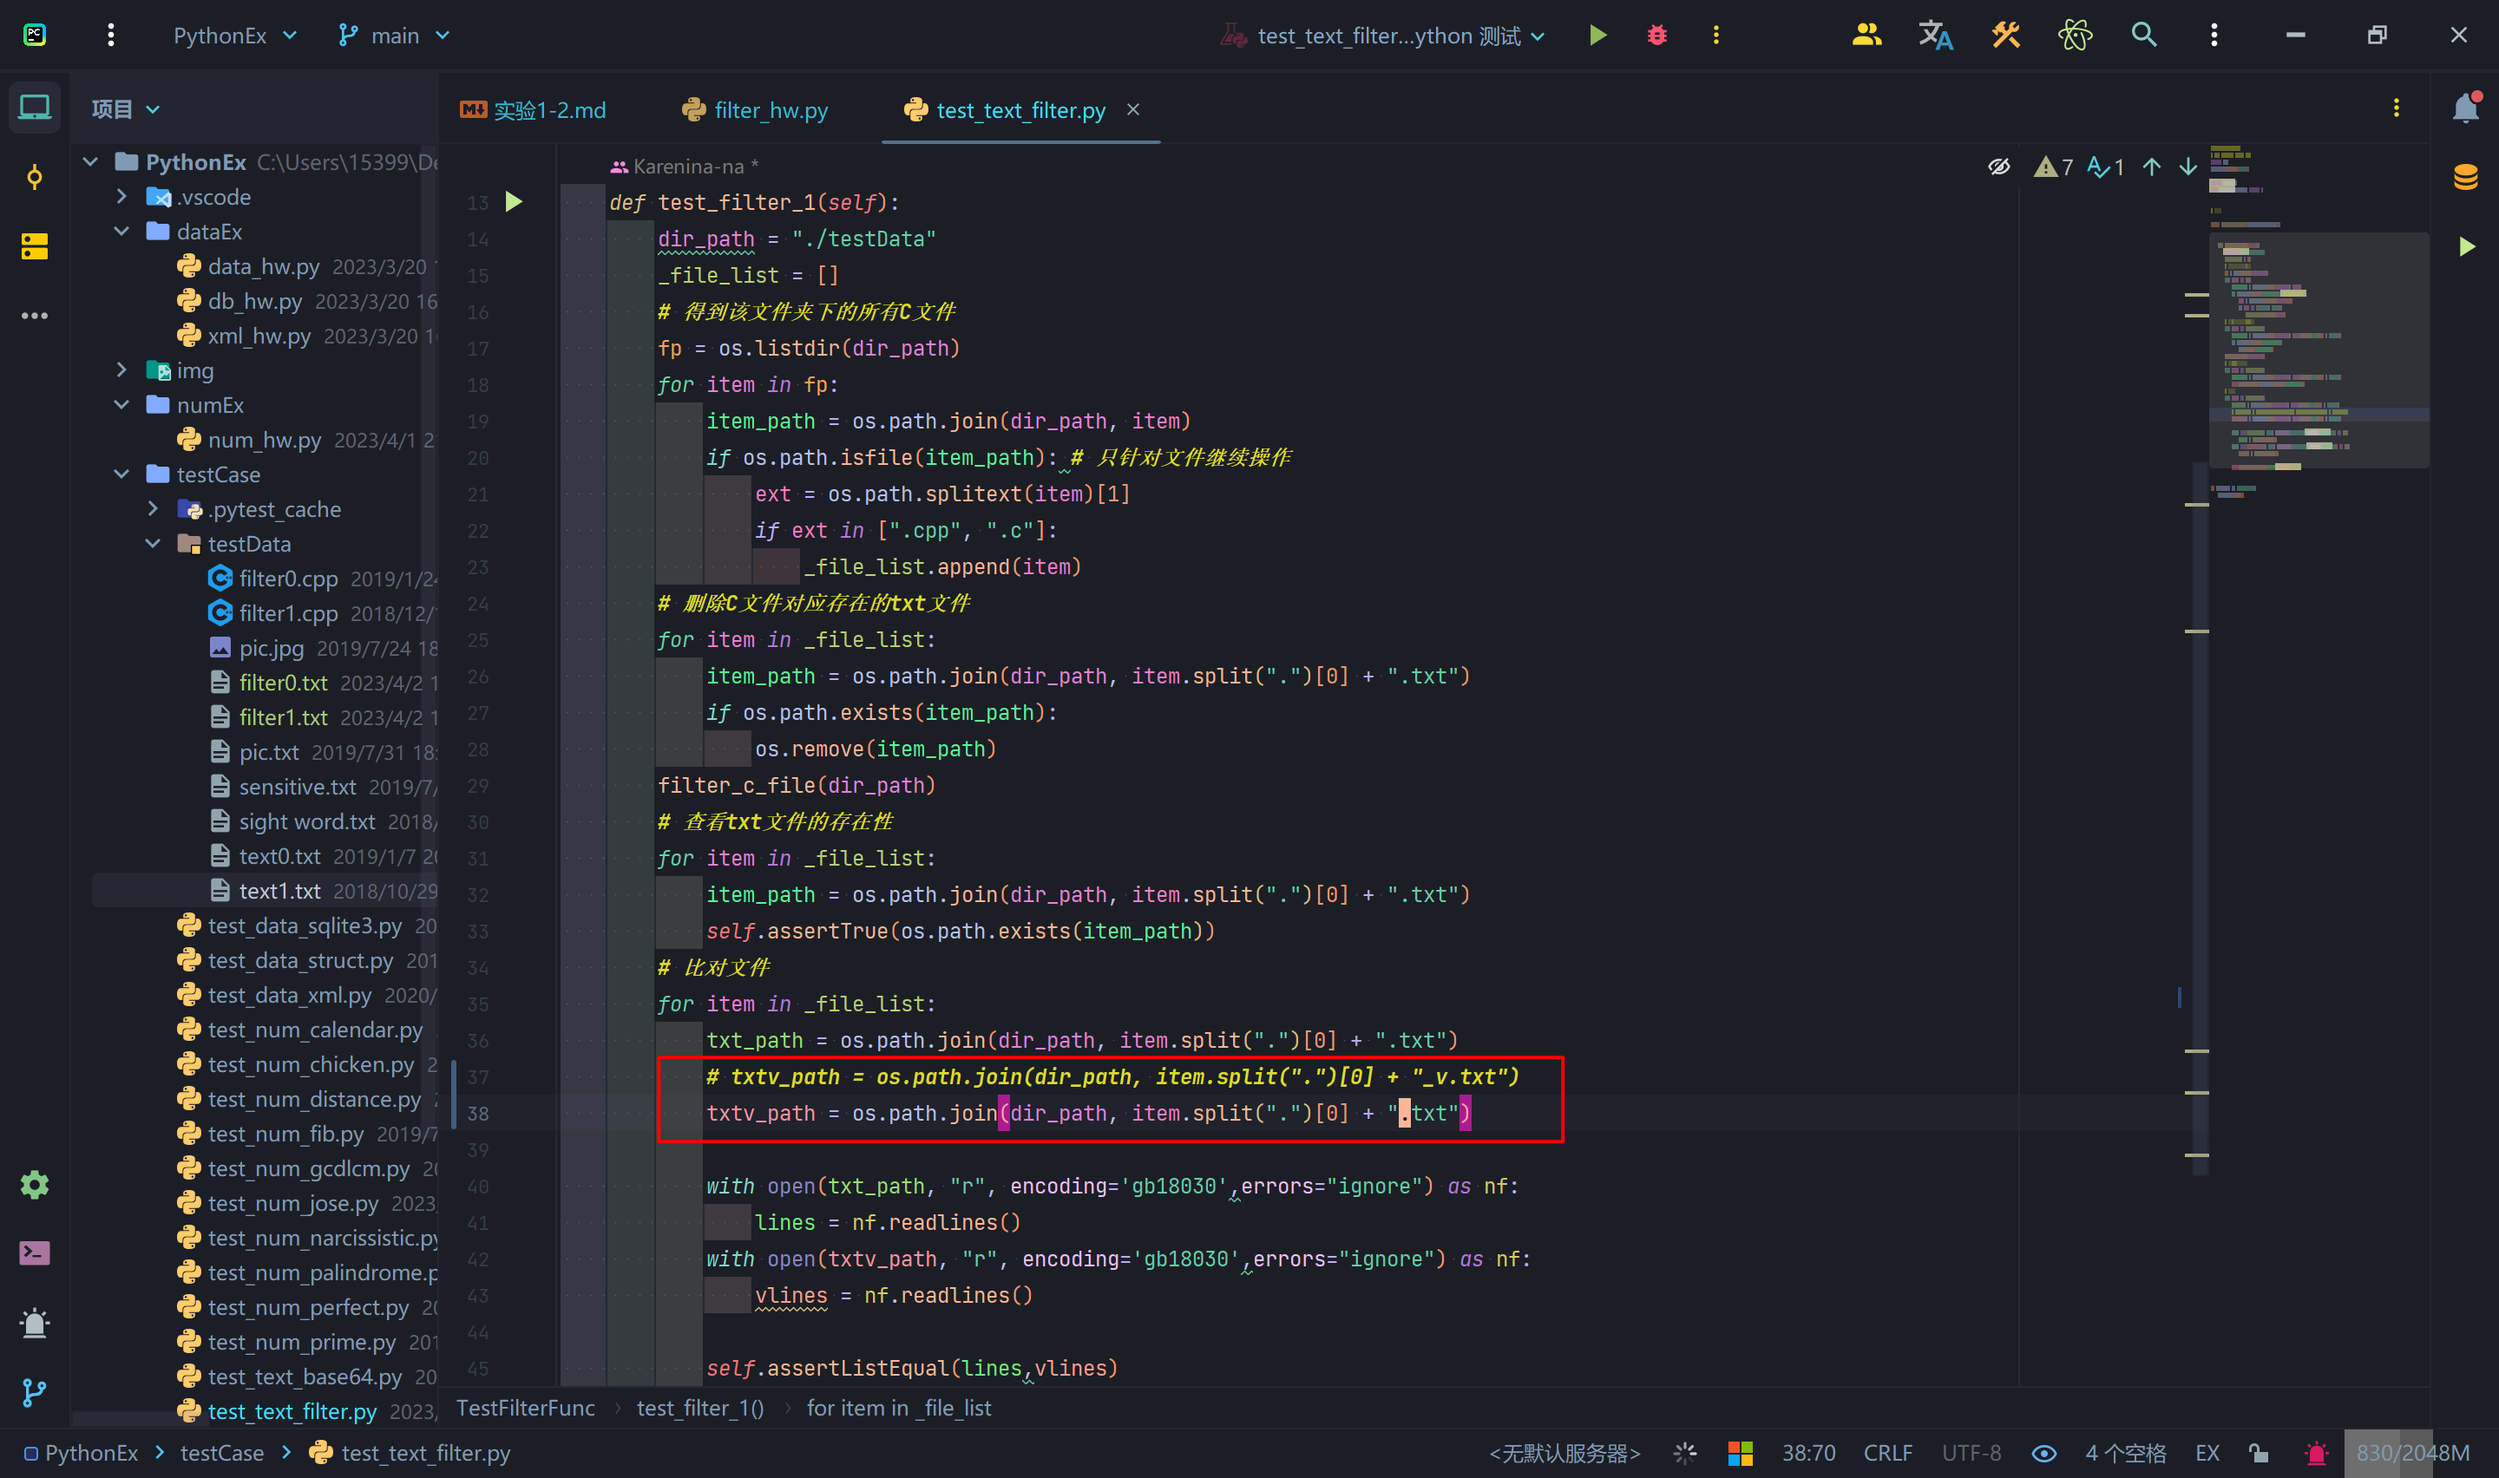
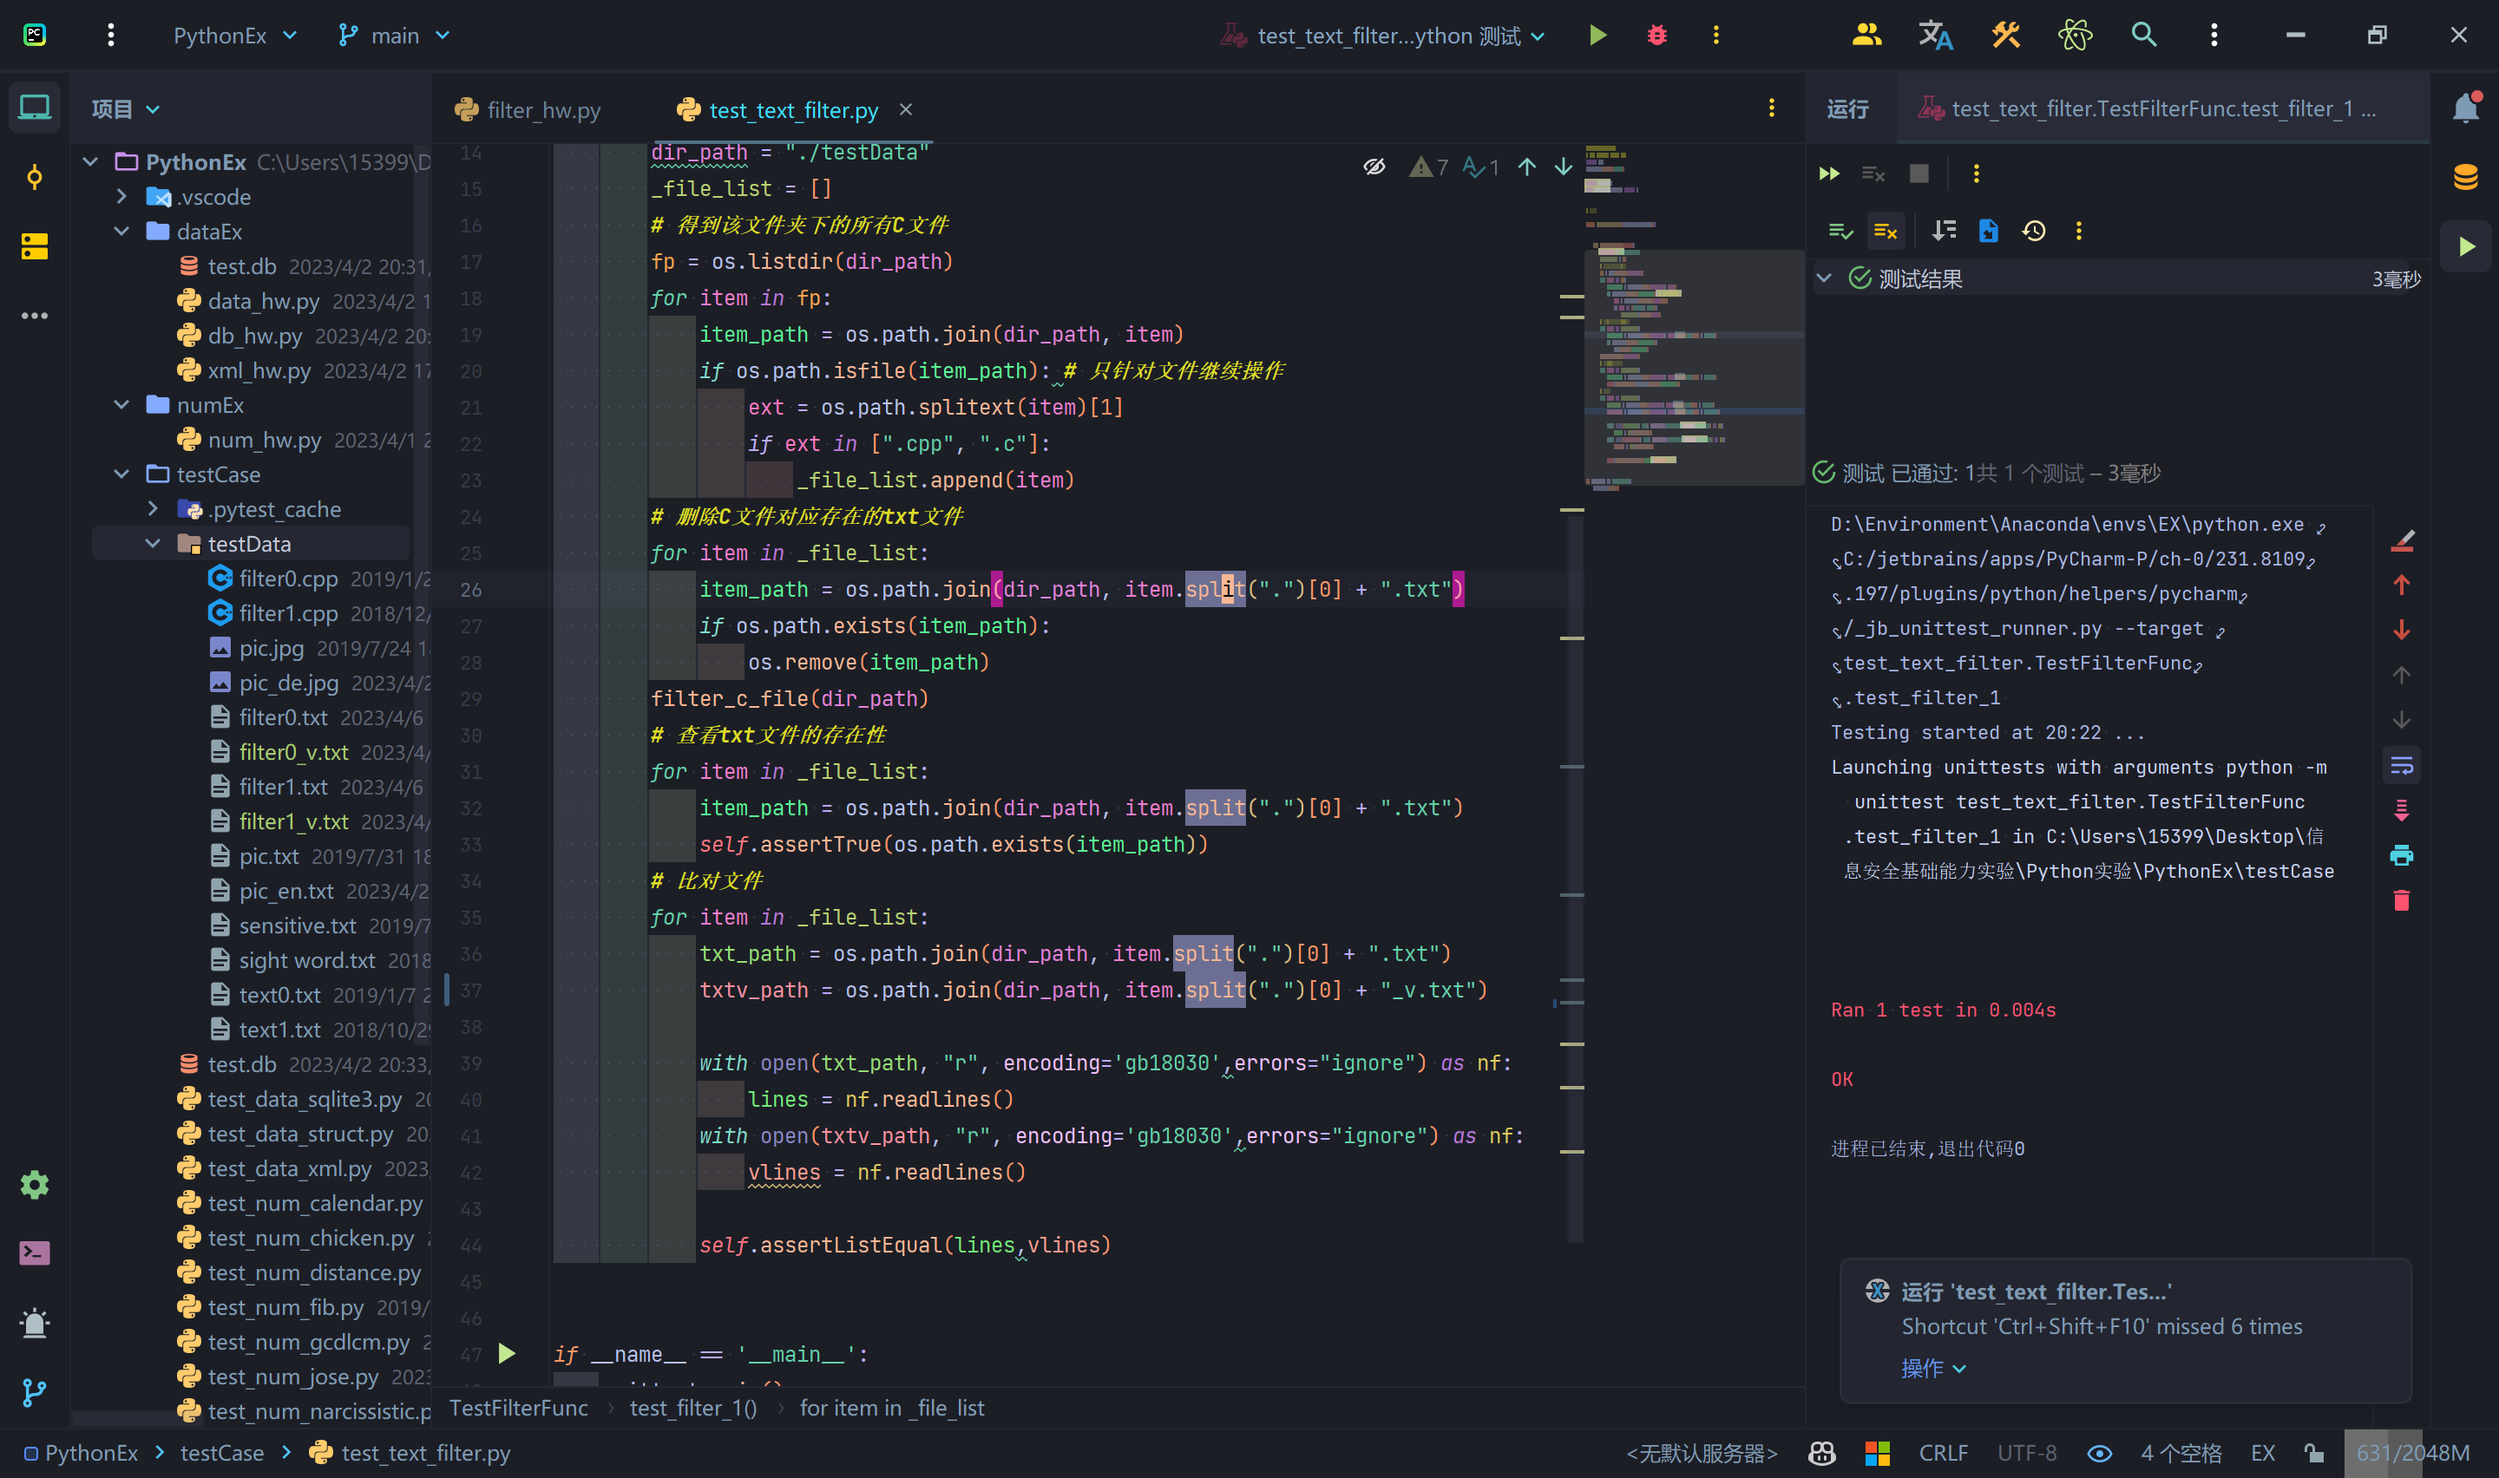
修改C语言过滤实验

diff --git a/Python实验/PythonEx/testCase/test_text_filter.py b/Python实验/PythonEx/testCase/test_text_filter.py
@@ -34,8 +34,7 @@ class TestFilterFunc(unittest.TestCase):
         # 比对文件
         for item in _file_list:
             txt_path = os.path.join(dir_path, item.split(".")[0] + ".txt")
-            # txtv_path = os.path.join(dir_path, item.split(".")[0] + "_v.txt")
-            txtv_path = os.path.join(dir_path, item.split(".")[0] + ".txt")
+            txtv_path = os.path.join(dir_path, item.split(".")[0] + "_v.txt")
 
             with open(txt_path, "r", encoding='gb18030',errors="ignore") as nf:
                 lines = nf.readlines()

diff --git a/Python实验/实验1-2.md b/Python实验/实验1-2.md
@@ -694,16 +694,10 @@ def filter_c_file(dir_path):
 ![13.2](./img/13-2.png)
 
 ```blank
-运行测试代码，这里需要注意，经过检查，测试代码中读取文件代码的文件名并不与题目一致，因此将测试代码更改后如下。
-```
-
-![13.3](./img/13-3.png)
-
-```blank
 运行测试代码，得到结果。测试通过。
 ```
 
-![13.4](./img/13-4.png)
+![13.4](./img/13-3.png)
 
 ---
 
